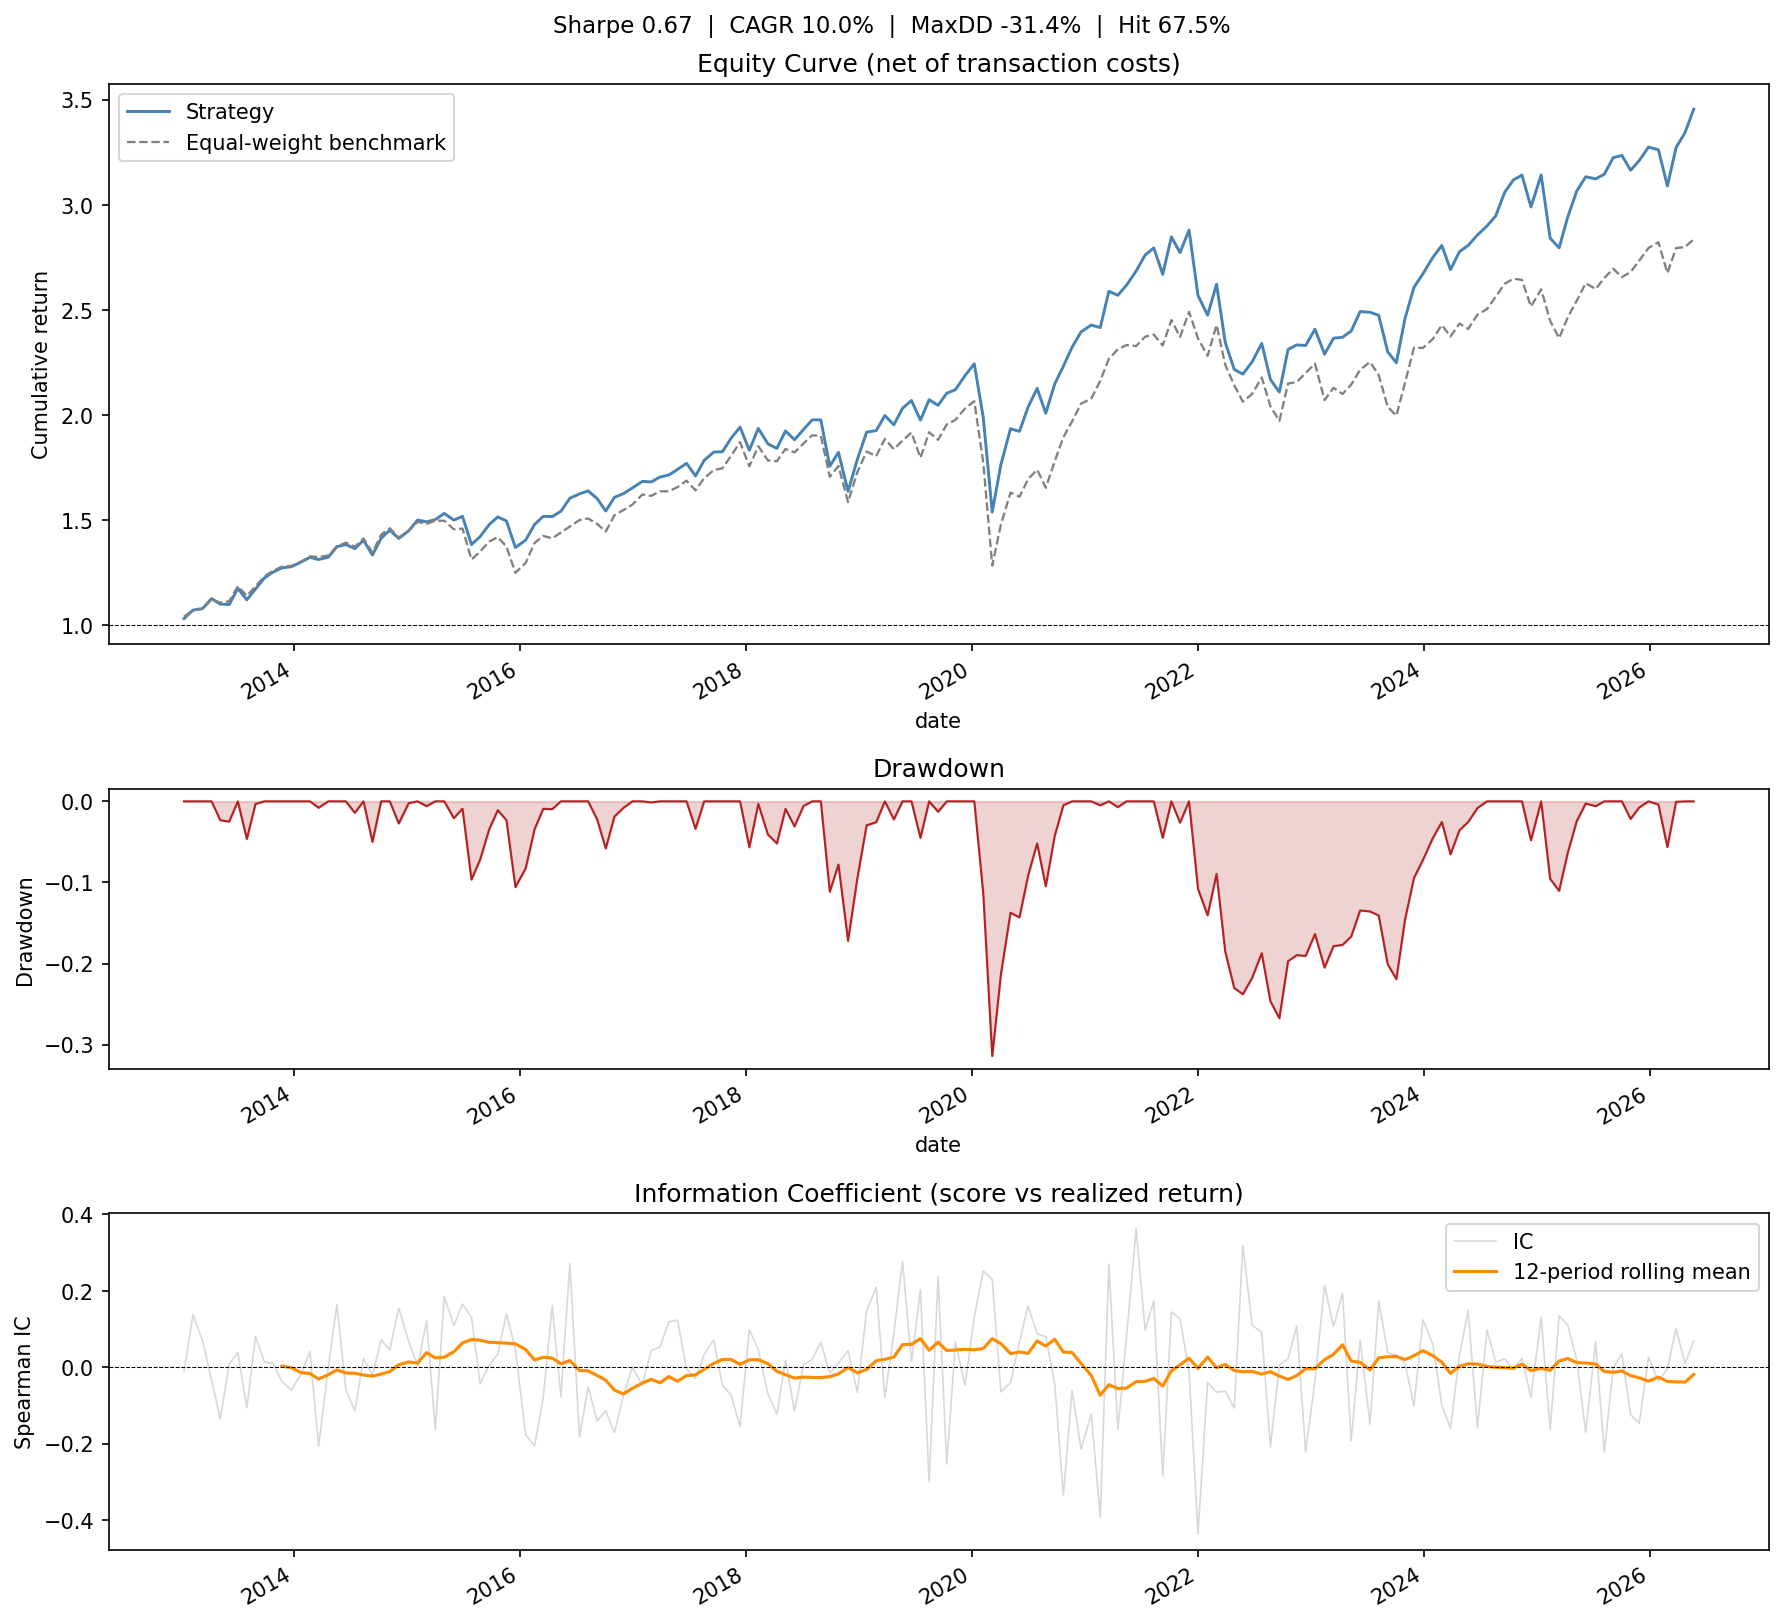
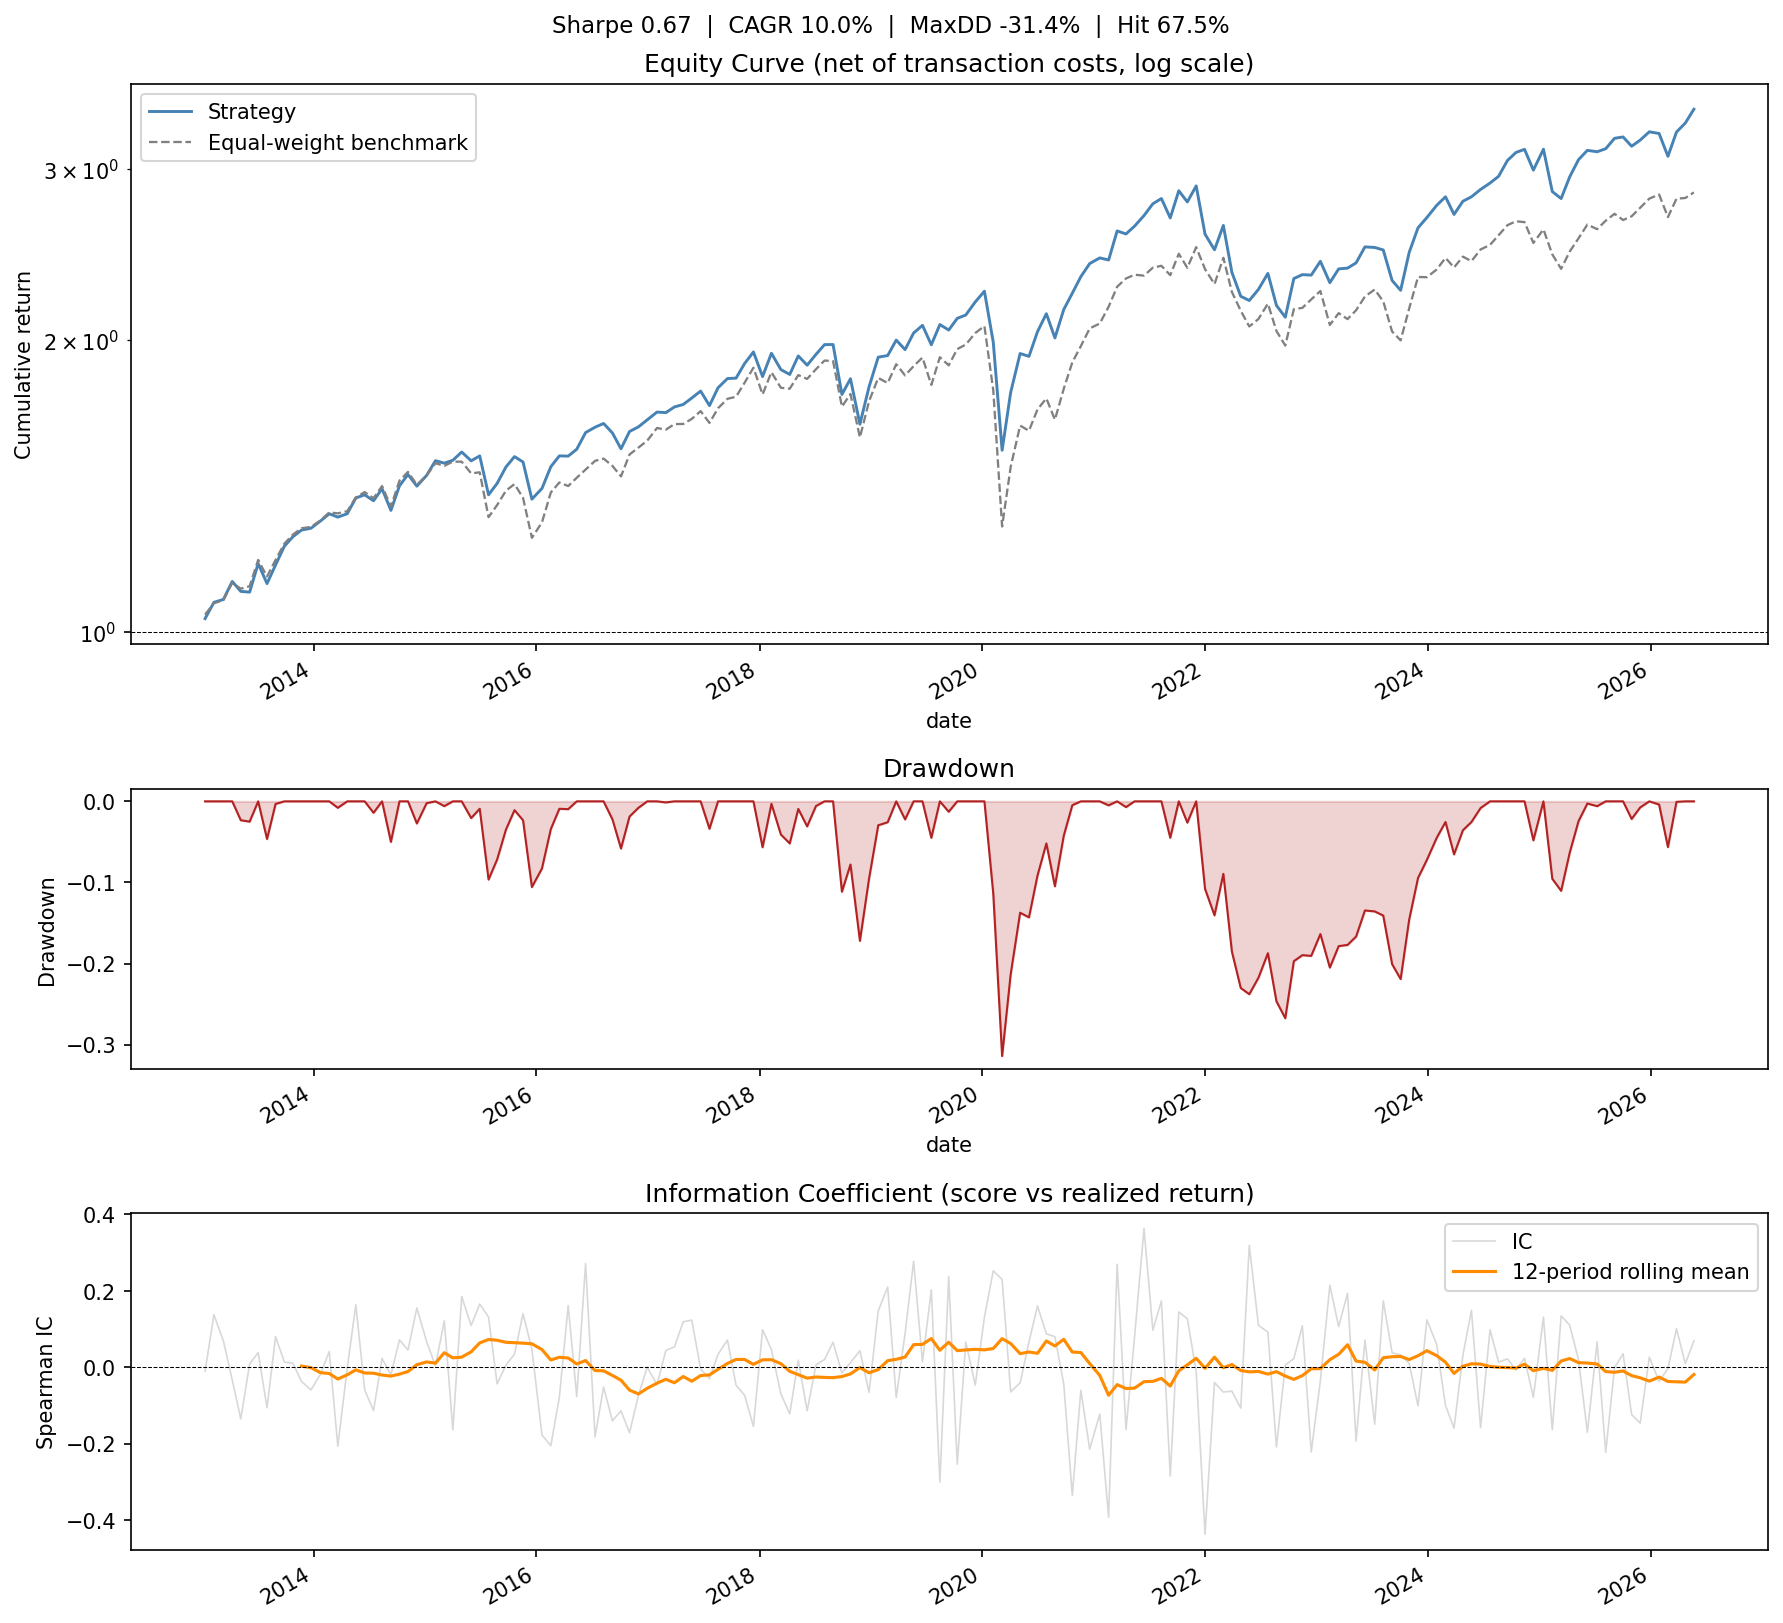
Polish: benchmark hit rate, precise cost math, log-scale chart, TOC
- Results table: added benchmark hit rate (66.3%, nearly identical to
  strategy's 67.5% -- "positive most months" isn't skill in a bull
  market on its own) and annualized cost drag (0.52%/yr, computed
  directly from the backtest rather than estimated).
- Explicitly defined turnover as two-sided and corrected a mismatched
  assumption from the review: applying 10bps to the two-sided turnover
  figure once already accounts for both sides of each trade, so the
  cost drag is 0.52%/yr, not ~1%/yr (doubling would double-count).
- report.py: equity curve now log-scale, clearer for comparing
  compounding differences over a 13-year multi-year window.
- Added a table of contents after 10 sections accumulated this session.

diff --git a/src/report/report.py b/src/report/report.py
@@ -33,8 +33,9 @@ def plot_report(
             ax=axes[0], color="grey", linewidth=1.1, linestyle="--",
             label="Equal-weight benchmark",
         )
-    axes[0].set_title("Equity Curve (net of transaction costs)")
+    axes[0].set_title("Equity Curve (net of transaction costs, log scale)")
     axes[0].set_ylabel("Cumulative return")
+    axes[0].set_yscale("log")
     axes[0].axhline(1.0, color="black", linewidth=0.5, linestyle="--")
     axes[0].legend()
 

diff --git a/README.md b/README.md
@@ -5,6 +5,18 @@
 Cross-sectional monthly long-only equity strategy on a point-in-time S&P 500
 universe with an overfitting-resistant walk-forward backtest.
 
+**Contents**: [Results](#results-as-of-latest-run) ·
+[Decomposition](#decomposition-how-much-is-the-model-actually-contributing) ·
+[Factor regression](#factor-regression-is-this-just-known-factor-exposure) ·
+[Sector exposure](#sector-exposure-is-this-just-long-tech) ·
+[Statistical significance](#statistical-significance-is-this-distinguishable-from-luck) ·
+[Phases completed](#phases-completed) ·
+[Feature set](#feature-set-5-features-all-rank-normalised-cross-sectionally) ·
+[Sensitivity summary](#sensitivity-summary) ·
+[Quickstart](#quickstart) ·
+[Key design decisions](#key-design-decisions) ·
+[Survivorship bias handling](#survivorship-bias-handling)
+
 ## Results (as of latest run)
 
 *Reproduce these exact numbers*: `config/config.yaml` with `universe.mode: full`,
@@ -17,12 +29,26 @@ Numbers will drift on a fresh data pull as prices/fundamentals update.
 | CAGR | **10.0%** |
 | Ann. volatility | 16.5% |
 | Max drawdown | -31.4% |
-| Hit rate | 67.5% |
-| Avg turnover (per rebalance / annualized) | 40.2% / 523% |
+| Hit rate (strategy / benchmark) | 67.5% / 66.3% |
+| Avg turnover (per rebalance / annualized, two-sided\*) | 40.2% / 523% |
+| Annualized cost drag | 0.52%/yr |
 | IC (model vs realized) | +0.0050 (t = 0.48) |
 | Excess return vs equal-weight BM | +1.46% / yr |
 | Backtest period | 2013 – 2026 (169 periods) |
 | Universe | Full point-in-time S&P 500 (607 current members, 814 ever-members) |
+
+\* Turnover here is two-sided (sum of `\|weight_new - weight_old\|` — a full
+portfolio replacement reads as 2.0, not 1.0), and the 10bps cost is applied
+directly to that two-sided figure once (10bps per side is already baked in,
+not 10bps applied twice). The 523%/yr annualized turnover number therefore
+implies 0.52%/yr of cost drag, not ~1%/yr — worth being precise about, since
+the two-sided-vs-one-sided distinction is an easy way to double- or
+half-count this.
+
+The **benchmark's hit rate (66.3%) is nearly identical to the strategy's
+(67.5%)** — a reminder that "positive most months" is what any long-only
+strategy does in a rising market, not evidence of stock-picking skill on
+its own.
 
 **The excess return and Sharpe gap above are point estimates from 169
 periods, not precise measurements.** 95% block-bootstrap CIs: excess return
@@ -332,6 +358,7 @@ engineered from a result.
 - [x] **6n** Fama-French 5 + momentum factor regression — see Factor regression
 - [x] **6o** Block-bootstrap CI on the headline excess-return/Sharpe-gap claims — see Statistical significance
 - [x] **6p** Sector exposure table + re-verified sector-neutral Sharpe cost (0.54 -> 0.135 on the current model) — see Sector exposure
+- [x] **6q** Benchmark hit rate, precise cost-drag math, log-scale equity curve, table of contents
 
 ## Feature set (5 features, all rank-normalised cross-sectionally)
 